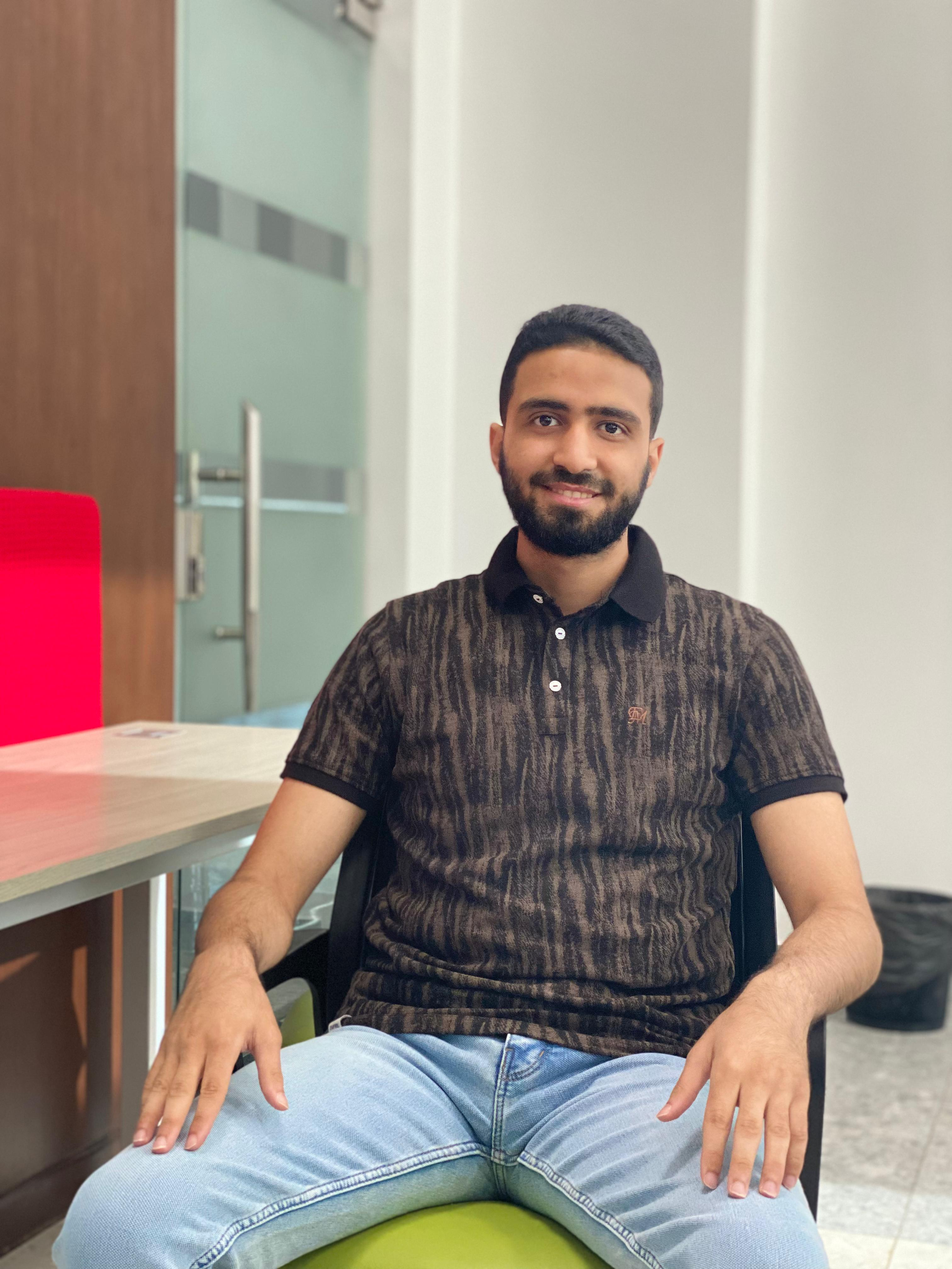
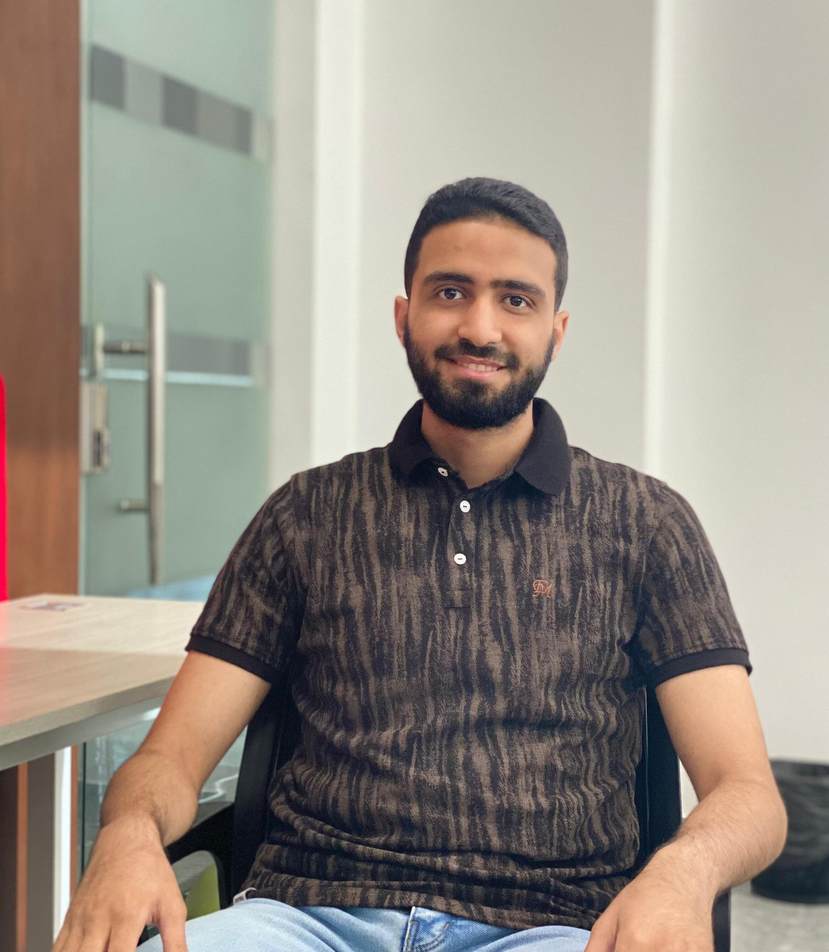
تحديث الصورة الشخصية

diff --git a/src/components/Home.jsx b/src/components/Home.jsx
@@ -1,5 +1,6 @@
 import { useState, useEffect } from 'react';
 import { motion } from 'framer-motion';
+import profileImg from '../assets/1758626029778.jpg';
 
 export default function Home({ handleNavClick }) {
   const [text, setText] = useState('');
@@ -72,7 +73,7 @@ export default function Home({ handleNavClick }) {
             transition={{ duration: 0.8, delay: 0.2 }}
           >
             <div className="home-img-inner">
-              <img src="image/me.jpg" alt="Mohamed Abohelal" loading="eager" fetchpriority="high" />
+              <img src="./src/assets/1758626029778.jpg" alt="Mohamed Abohelal" loading="eager" fetchpriority="high" />
             </div>
           </motion.div>
         </div>
